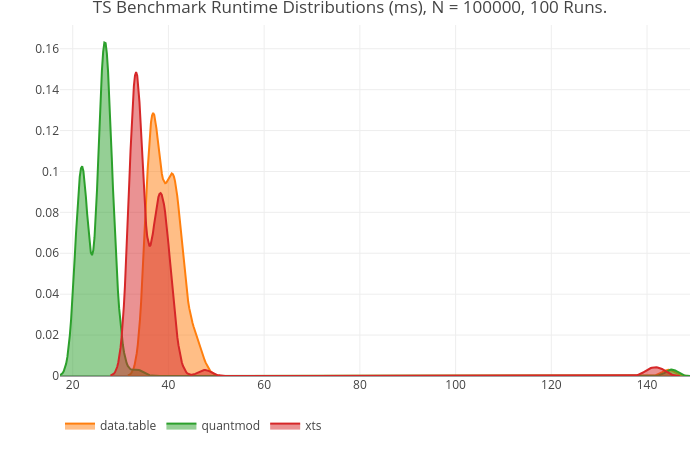
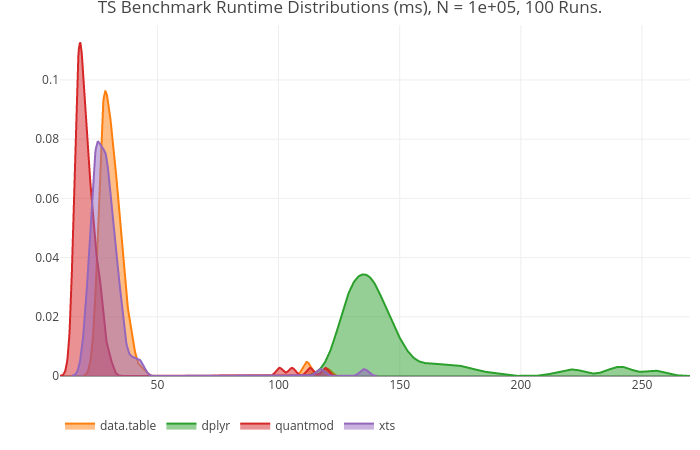
Added dplyr

Changed region(s): [[0.03, 0.0933, 0.99, 0.8711], [0.12, 0.0, 0.87, 0.0311], [0.3, 0.9333, 0.57, 0.9644]]

diff --git a/README.md b/README.md
@@ -7,16 +7,23 @@
 - **Input**: Nx2 object (N days), columns *Date* and *Price*
 - **Output**: Mx2 object (M months), columns *Month* and *Return*
 
+### Current Implementations
+
+- xts
+- data.table
+- dplyr
+- quantmod
+
 ### Hardware
 - Intel® Core™ i7-8565U CPU @ 1.80GHz × 8
 - 16GB LPDDR3 2133MHz
-- Ubuntu 18.04
+- Ubuntu 18.04 LTS
 
 ### Results
-<img src="./1e4.png">
+<img src="./1e4.png" height="450" width="700">
 
-<img src="./1e5.png">
+<img src="./1e5.png" height="450" width="700">
 
-<img src="./1e6.png">
+<img src="./1e6.png" height="450" width="700">
 
 
